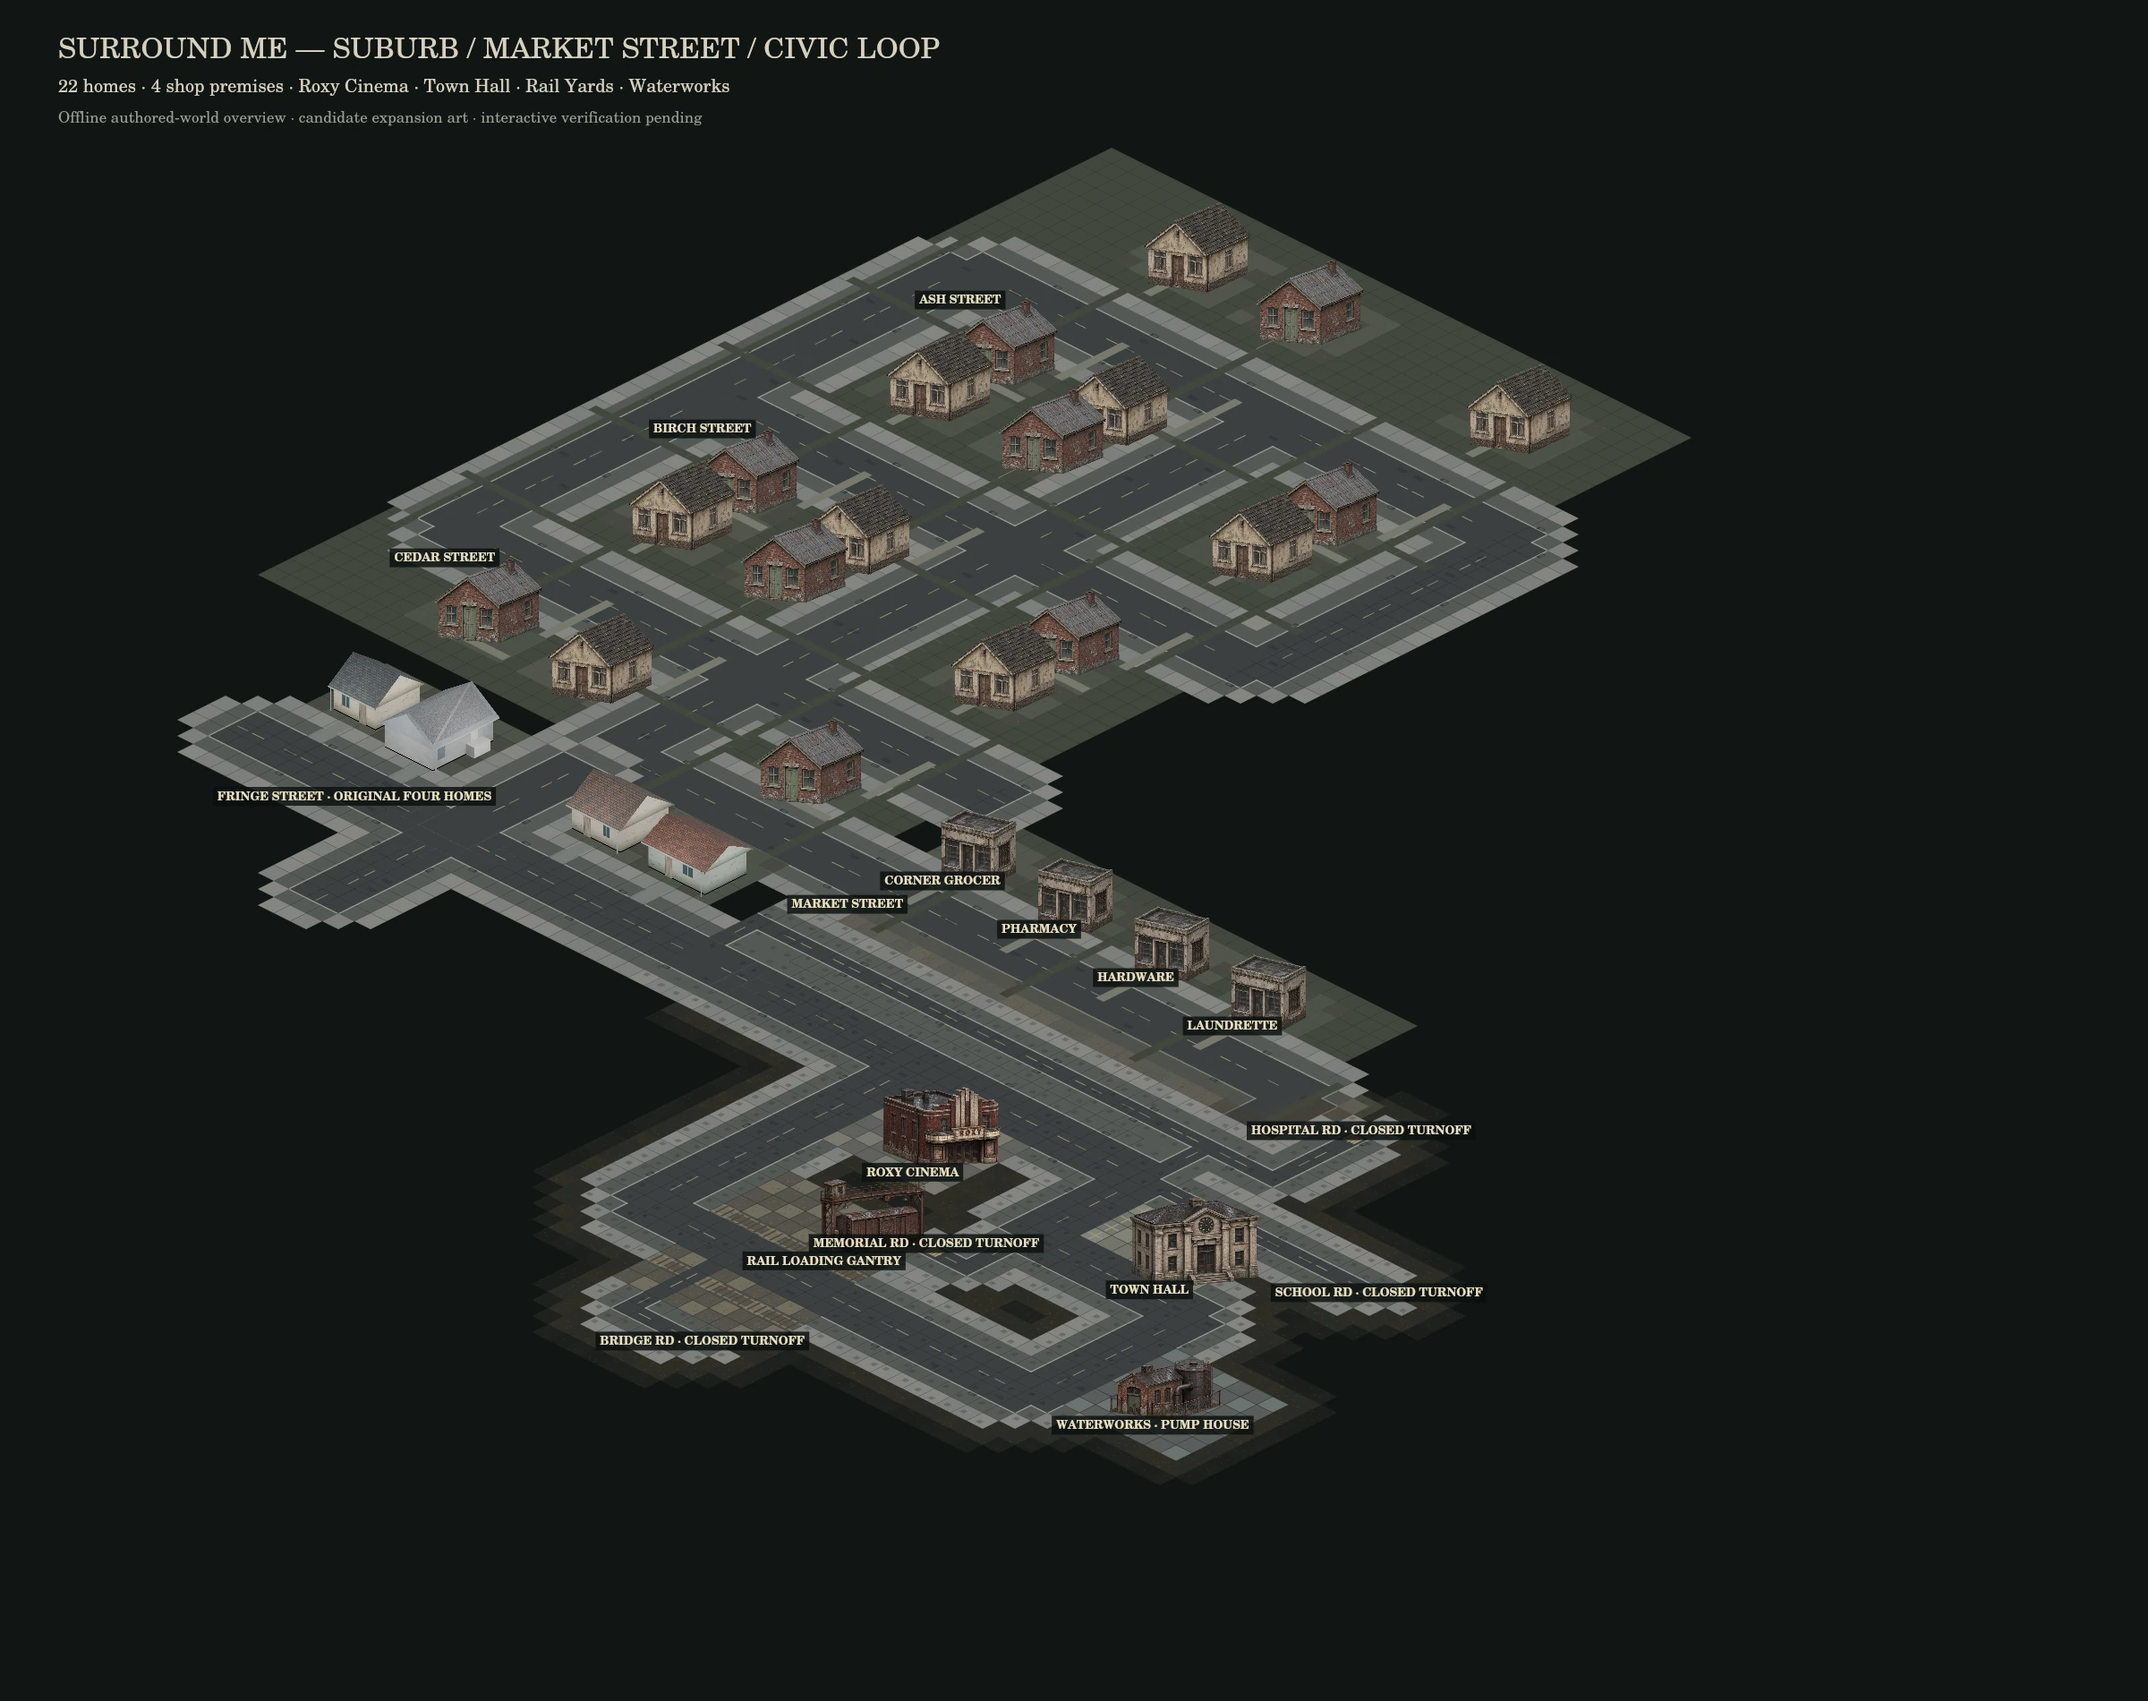
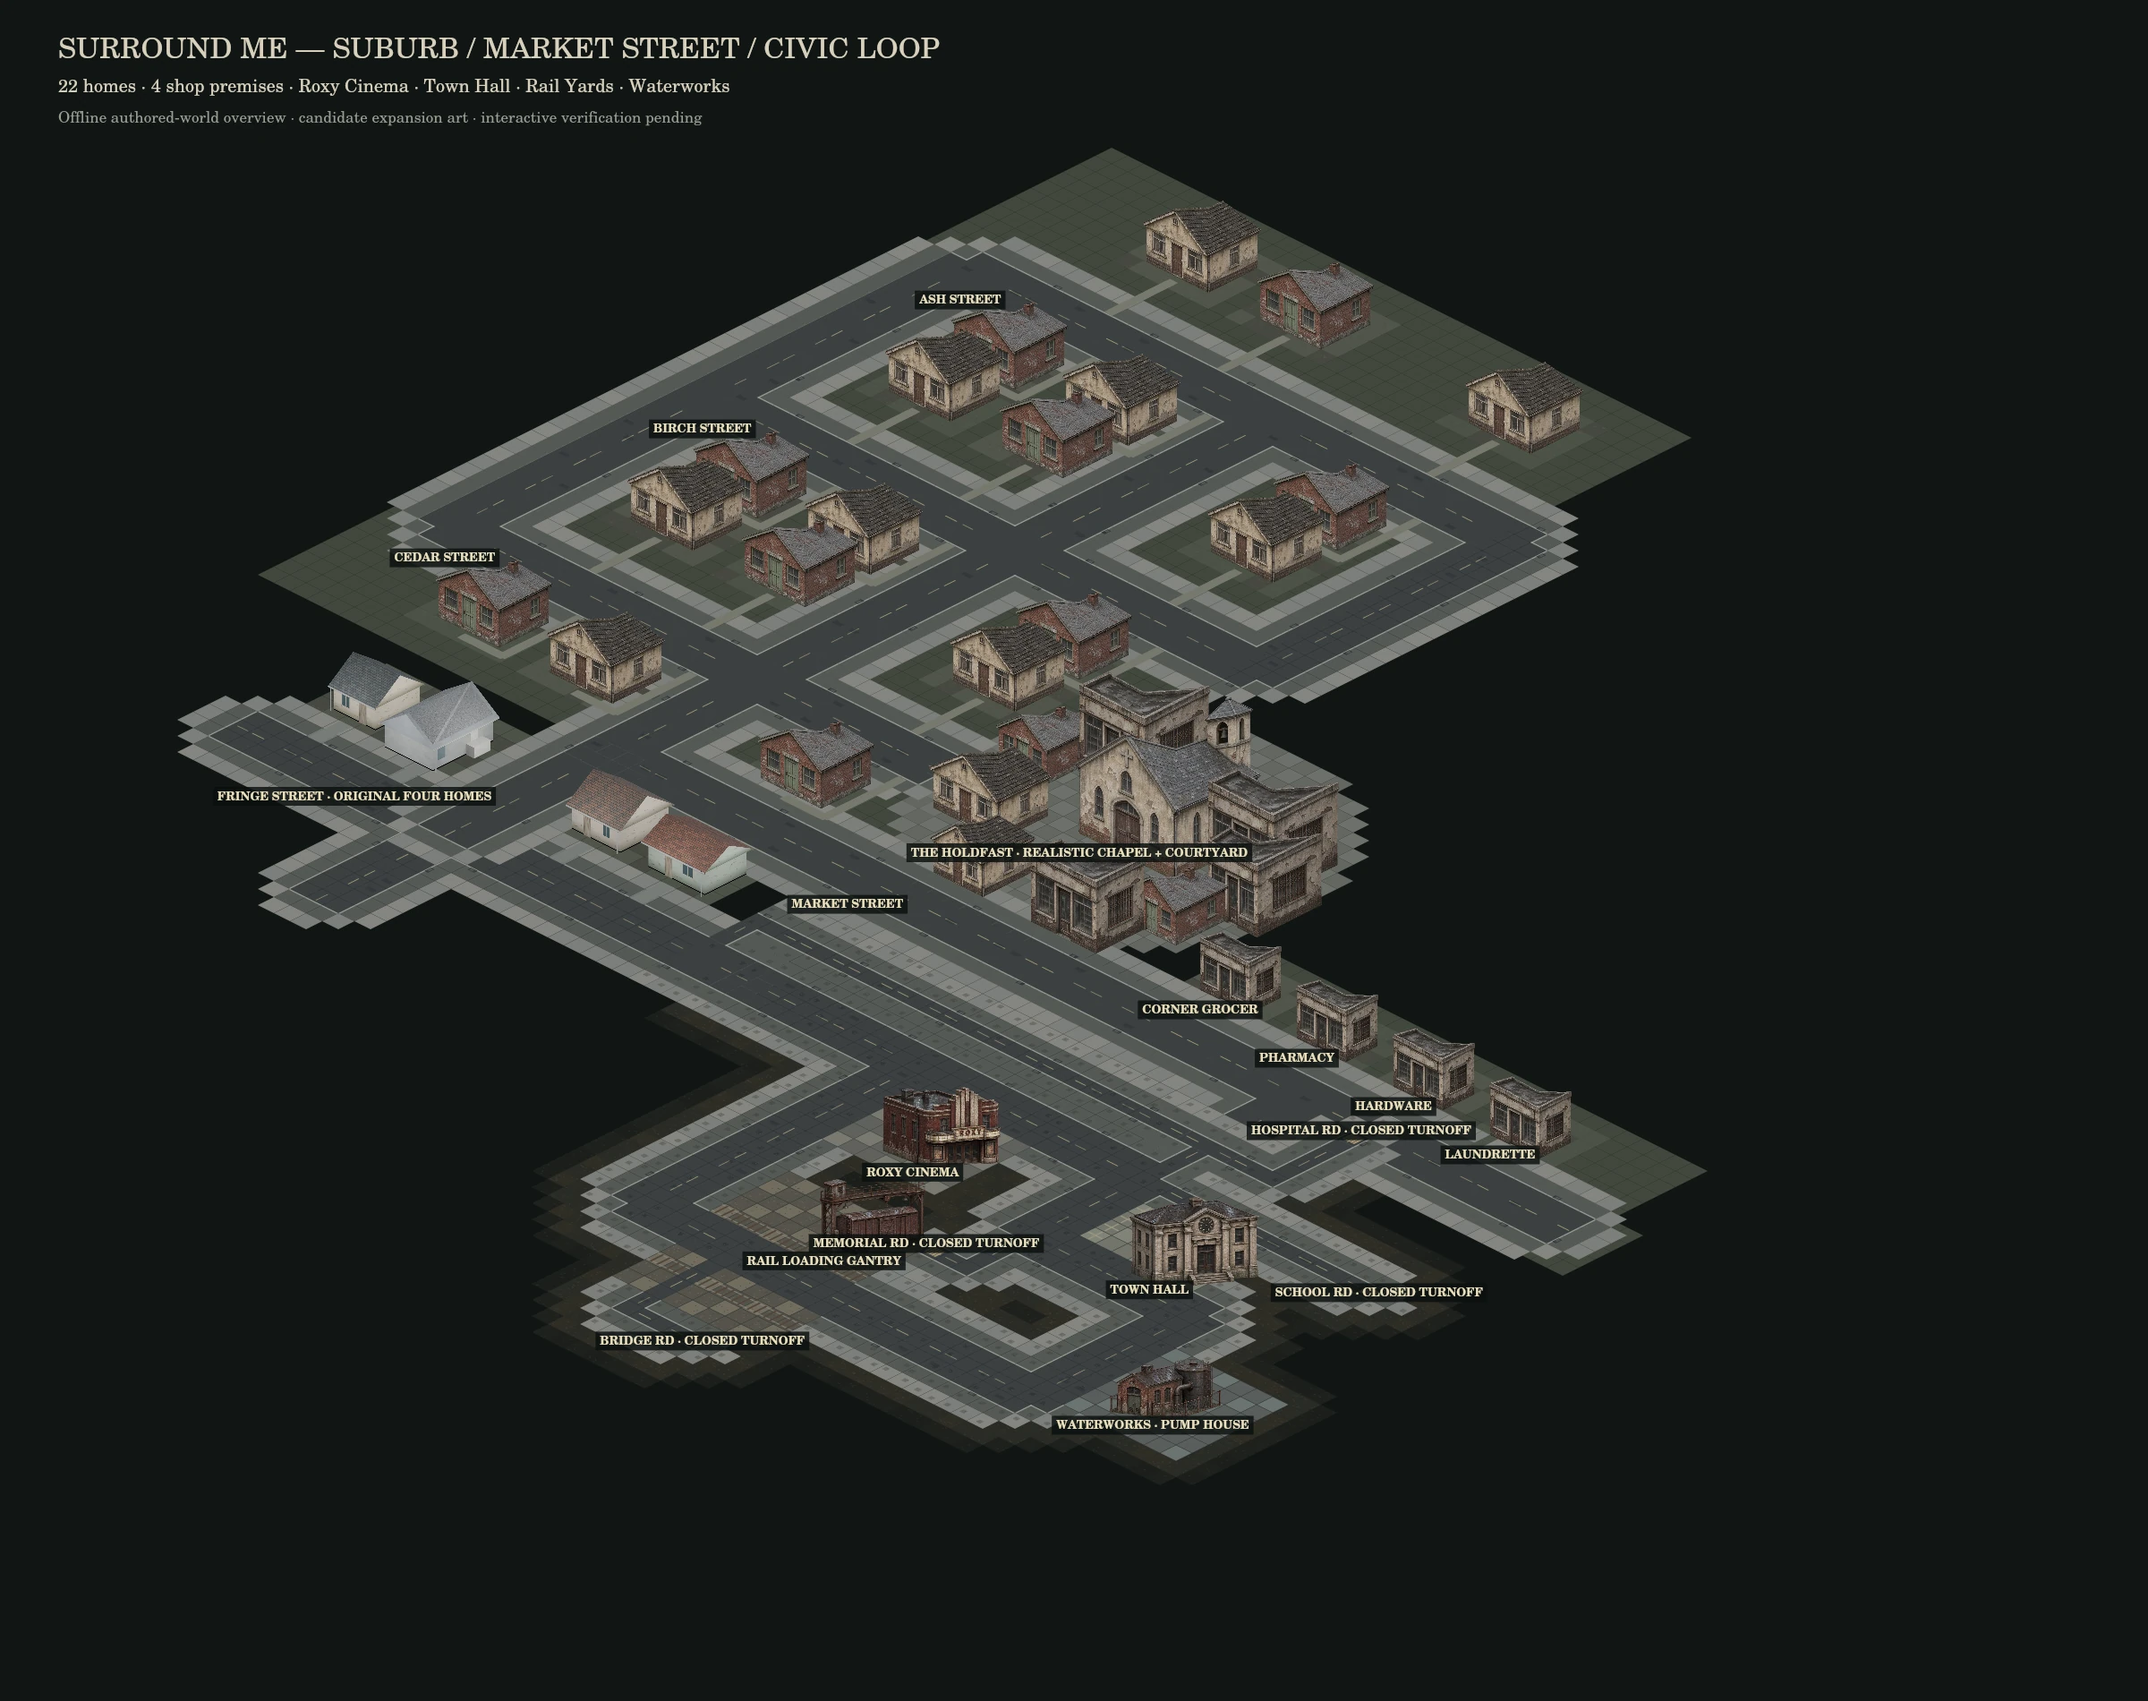
Fix grass road overdraw, town building projection and Holdfast legacy art
Layer terrain below roads across chunks. Calibrate house/shop/chapel facade edges to 64x32 world projection while retaining vertical walls. Preserve all nine Holdfast structures and NPCs, replace legacy building visuals and courtyard, and move commercial parcels east of the hub.

Validation: 93 Node tests pass. Updated offline overview inspected; interactive player verification pending.

diff --git a/game.js b/game.js
@@ -1,8 +1,8 @@
-import {townAssetPaths, buildTownPlan, prepareTownExpansion, buildTownGround, inTownArea, townLocation, drawTownBuilding} from './world-art/town-expansion.mjs?v=1';
+import {townAssetPaths, buildTownPlan, prepareTownExpansion, buildTownGround, inTownArea, townLocation, drawTownBuilding, prepareHoldfastArt} from './world-art/town-expansion.mjs?v=2';
 import { createGroundAtlas } from './verge-ground.mjs';
 import { civicStart, civicAssetIds, civicLocation, civicHazePools, civicDressingSites,
     civicSigns, civicStreetCells, huddledPositions, prepareCivicTown, buildCivicGround, drawCivicGround,
-    drawCivicLandmark, drawCivicSign, civicHuddledPose, civicStrikeClear } from './world-art/civic-town.mjs?v=1';
+    drawCivicLandmark, drawCivicSign, civicHuddledPose, civicStrikeClear } from './world-art/civic-town.mjs?v=2';
 import { createFringeArtKit } from './world-art/fringe-art-kit-v1/kit-runtime.mjs?v=1';
 import { advanceSamsarraDepth, createSamsarraEvent, samsarraEnemyForm } from './world-art/samsarra-event.mjs?v=2';
 import { createGreylineSonorisDirector, greylinePulseBpm } from './world-art/greyline-sonoris-director.mjs?v=4';
@@ -15027,7 +15027,8 @@ async function init() {
                     const missingTown=Object.keys(townAssetPaths).filter(id=>!loadedImages[id]);
                     if(missingTown.length) throw new Error('Town art missing: '+missingTown.join(', '));
                     townPlan=prepareTownExpansion(world,structureBounds,buildTownPlan());
-                    civicGround=[...buildTownGround(townPlan),...civicGround];
+                    prepareHoldfastArt(world,structureBounds);
+                    civicGround=[...buildTownGround(townPlan),...civicGround].sort((a,b)=>(a.stage??0)-(b.stage??0));
                 }
                 if (FRINGE_CRAFT_ART) civicDressing = civicDressingSites.map(mailbox=>
                     buildFringeDressing({layout:{cells:civicStreetCells},mailbox},worldToScreen)).filter(Boolean);

diff --git a/index.html b/index.html
@@ -1204,6 +1204,6 @@ FOR <!DOCTYPE html>
     <canvas id="game-canvas"></canvas>
     
     <!-- cache‑bust to avoid stale script causing syntax errors -->
-    <script type="module" src="./game.js?v=sonoris-bridge-4-fringe-craft-1-town-1"></script>
+    <script type="module" src="./game.js?v=sonoris-bridge-4-fringe-craft-1-town-2"></script>
 </body>
 </html>

diff --git a/evidence/town/README.md b/evidence/town/README.md
@@ -11,3 +11,11 @@ The default entry and `?district=town` load the expansion, retain the existing C
 - `overview.webp` is an offline overview rendered from the expansion's ground and building functions; it is not an interactive gameplay screenshot.
 
 Validation: Node suite passes. Interactive browser validation was blocked by the preview environment: local Chromium failed on a restricted Unix socket and the shared browser could not reach the local server. Camera conformance, final physical scale and human visual acceptance remain pending. This branch has not been deployed to GitHub Pages.
+
+## Rendering correction
+
+- Ground chunks now paint terrain before streets across the entire town and Civic Loop. This removes grass strips that previously overwrote roads at eight-tile chunk boundaries.
+- House, shop and chapel facades use measured source contact points and separate affine facade transforms to align their base edges with the 64x32 world projection while keeping walls vertical. This is a renderer correction; it does not confer final canonical art approval.
+- Existing Holdfast building identities, collision footprints and NPCs are retained. The chapel uses a new realistic sprite; support buildings use the town house/shop candidates. A paved courtyard replaces the old brown floor.
+- Market Street shop parcels move east of the Holdfast to avoid displacing its buildings. All nine original Holdfast structures survive the town installation.
+- 93 Node tests pass. The updated offline overview is checked; interactive verification on the player's local server remains pending.
